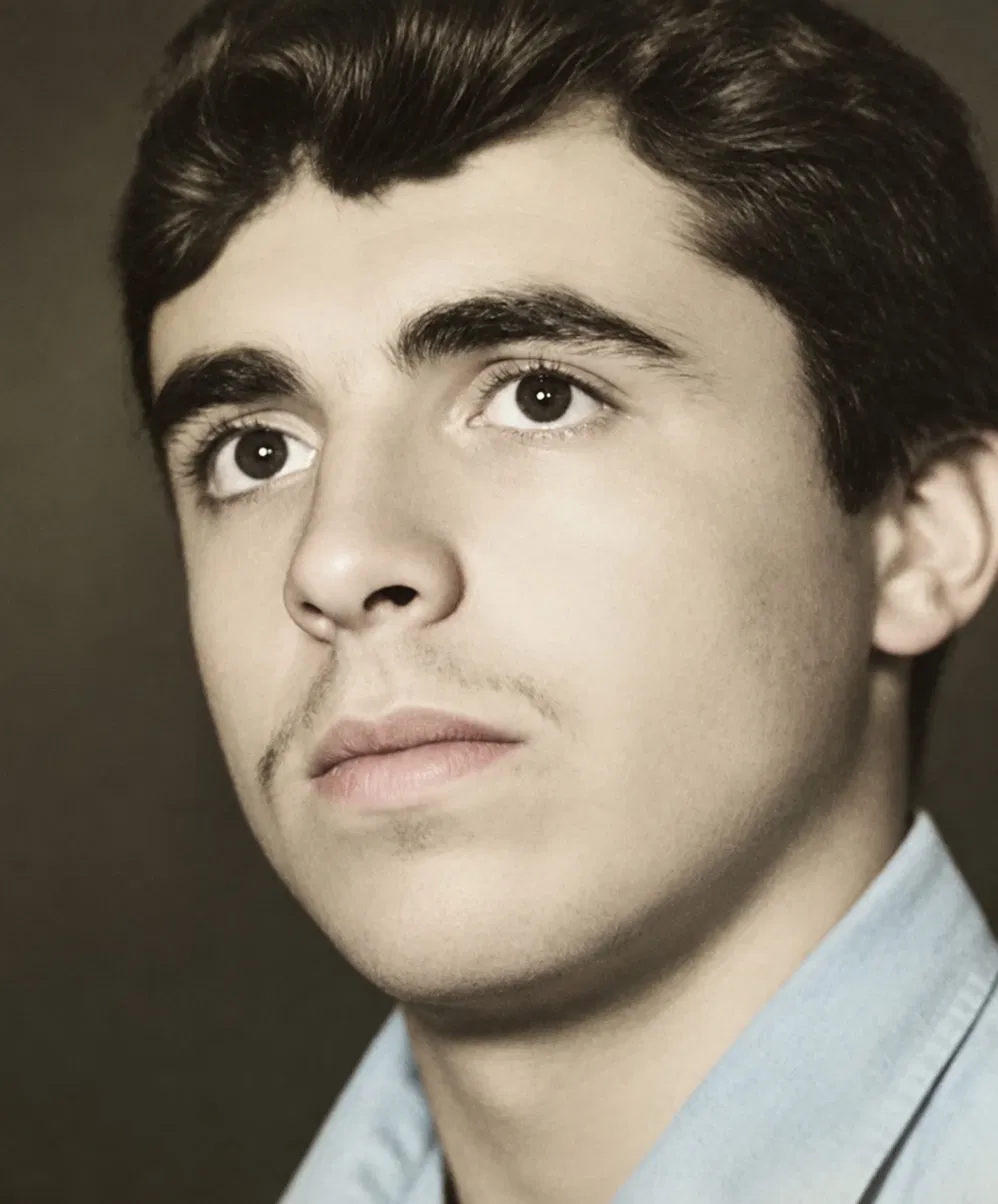
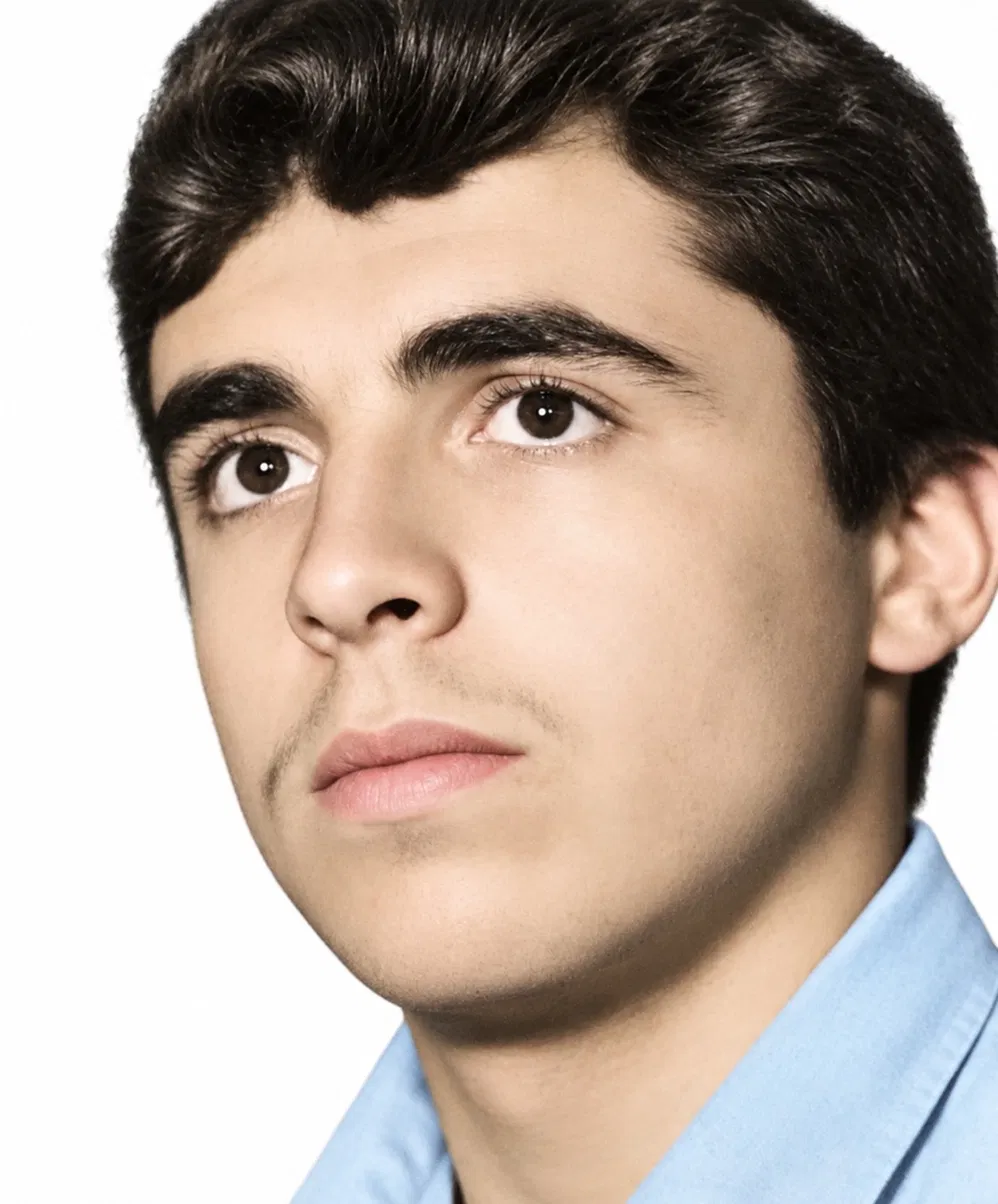
یاحسین

diff --git a/index.htm b/index.htm
@@ -157,28 +157,37 @@
       position: relative;
       display: flex;
       flex-direction: row;
-      flex-wrap: wrap;
+      /* nowrap عمدیه: عکس و نوشته باید همیشه کنار هم (در یک ردیف)
+         بمونن، حتی تو صفحههای باریک - قبلاً با wrap، تو موبایل نوشته
+         میافتاد زیر عکس. اگه فضا کم بیاد، خودِ متنِ داخل site-name
+         (نه کل ردیف) میشکنه، نه اینکه کل بلوک بره خط بعد. */
+      flex-wrap: nowrap;
       align-items: center;
       justify-content: center;
-      gap: 16px;
-      padding: 24px 22px;
+      gap: 12px;
+      padding: 20px 18px;
       text-align: center;
     }
 
     .hero-portrait {
       flex: 0 0 auto;
-      width: clamp(110px, 24vw, 150px);
-      height: clamp(110px, 24vw, 150px);
+      width: clamp(96px, 26vw, 210px);
+      height: clamp(96px, 26vw, 210px);
       border-radius: 50%;
       overflow: hidden;
       border: 3px solid var(--c-gold);
       box-shadow: 0 0 0 5px rgba(227, 200, 118, 0.2);
+      background: var(--c-cream);
     }
 
     .hero-portrait img {
       width: 100%;
       height: 100%;
-      object-fit: cover;
+      /* بهجای cover (که همیشه بخشی از عکس رو برای پرکردنِ کامل کادر
+         برش میزد)، از contain استفاده میکنیم - کل عکس، بدون هیچ
+         برشی، داخل کادر دایرهای جا میشه (فقط کوچیکتر دیده میشه). */
+      object-fit: contain;
+      object-position: center;
       display: block;
     }
 
@@ -186,6 +195,12 @@
        متناسب با مخاطب جوان این سایت. */
     .site-name {
       margin: 0;
+      /* min-width:0 لازمه وگرنه فلکسآیتم بهطور پیشفرض جمع نمیشه
+         (min-width:auto) و بهجاش کل ردیف رو پهن میکنه یا سرریز
+         میشه - با این، وقتی جا کم باشه خودِ متنِ «شهید روحبخش» بین
+         دو کلمه میشکنه، نه اینکه عکس بره خط بعد. */
+      min-width: 0;
+      flex: 1 1 auto;
     }
 
     .site-name .line1 {
@@ -193,7 +208,7 @@
       font-family: "Vazirmatn", sans-serif;
       font-weight: 600;
       color: var(--c-gold-light);
-      font-size: clamp(0.85rem, 2.2vw, 1.05rem);
+      font-size: clamp(0.75rem, 2.2vw, 1.05rem);
       text-shadow: 0 1px 3px rgba(0, 0, 0, 0.35), 0 2px 10px rgba(0, 0, 0, 0.25);
     }
 
@@ -202,14 +217,14 @@
       font-family: "Vazirmatn", sans-serif;
       font-weight: 800;
       color: var(--c-cream);
-      font-size: clamp(1.3rem, 4.6vw, 1.9rem);
+      font-size: clamp(1.05rem, 4.6vw, 1.9rem);
       text-shadow: 0 2px 4px rgba(0, 0, 0, 0.4), 0 3px 14px rgba(0, 0, 0, 0.3);
     }
 
     @media (max-width: 400px) {
       .hero-portrait {
-        width: clamp(88px, 26vw, 110px);
-        height: clamp(88px, 26vw, 110px);
+        width: clamp(90px, 24vw, 130px);
+        height: clamp(90px, 24vw, 130px);
       }
     }
 
